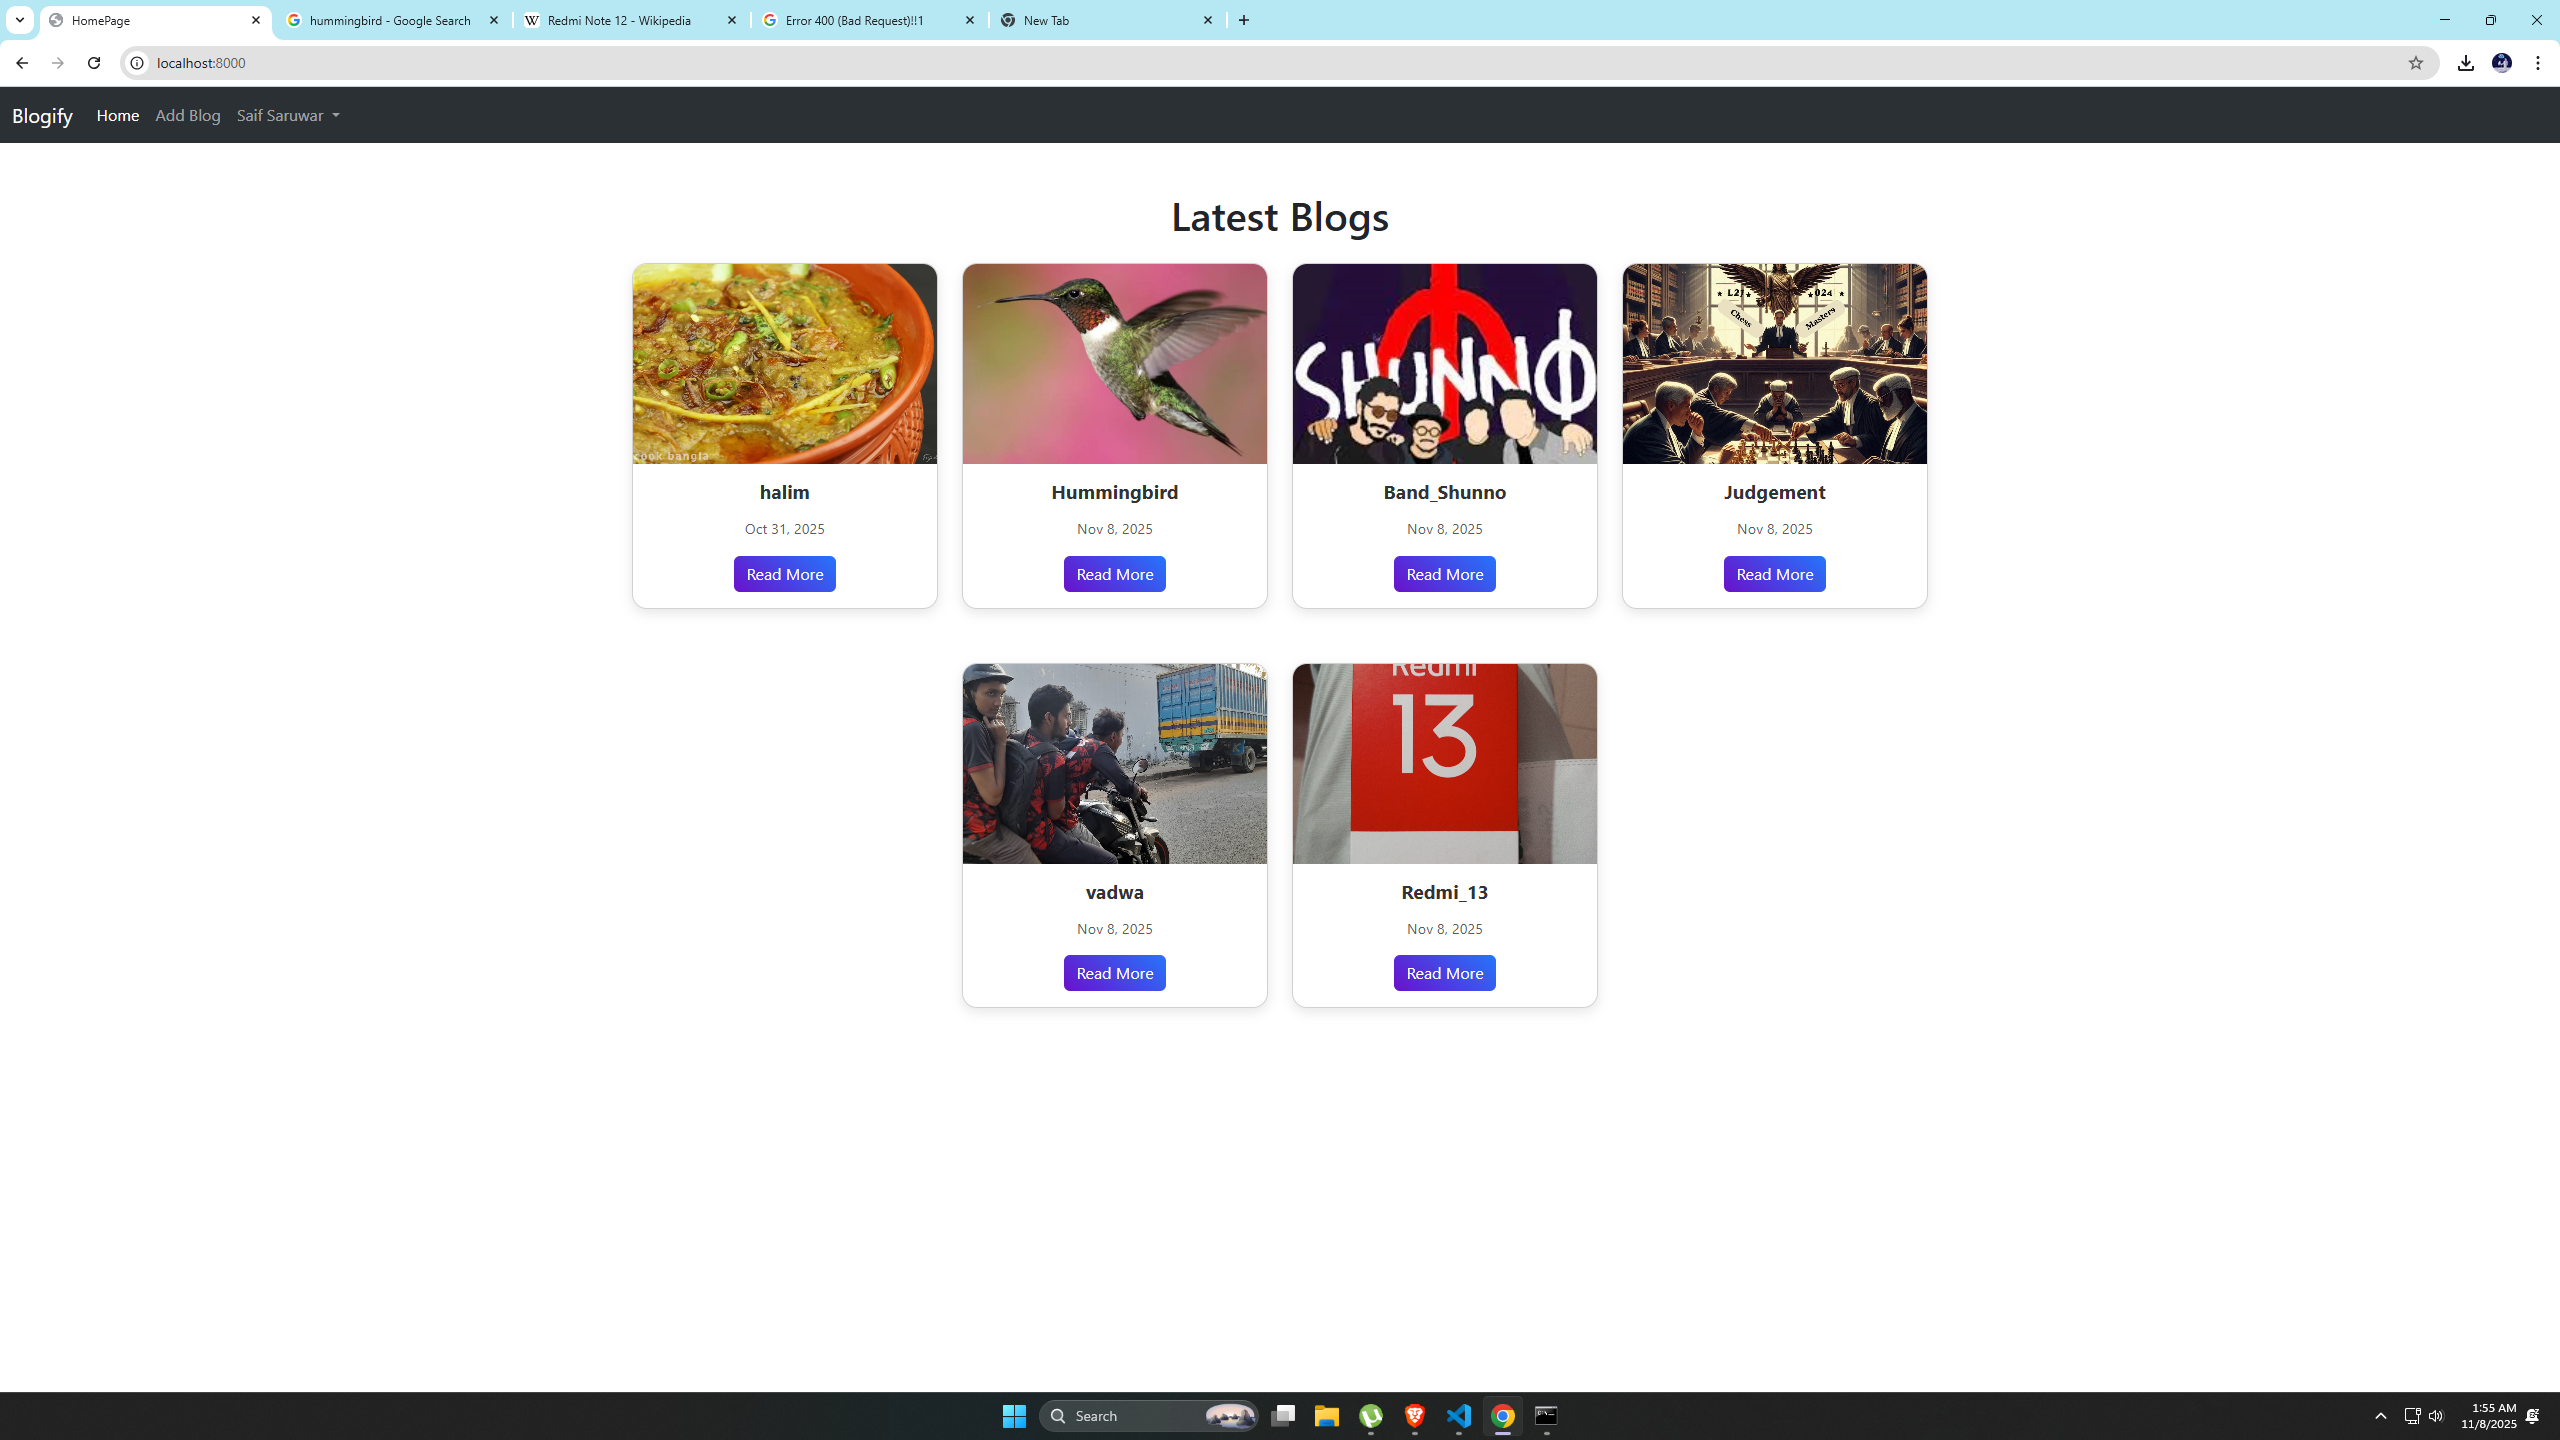
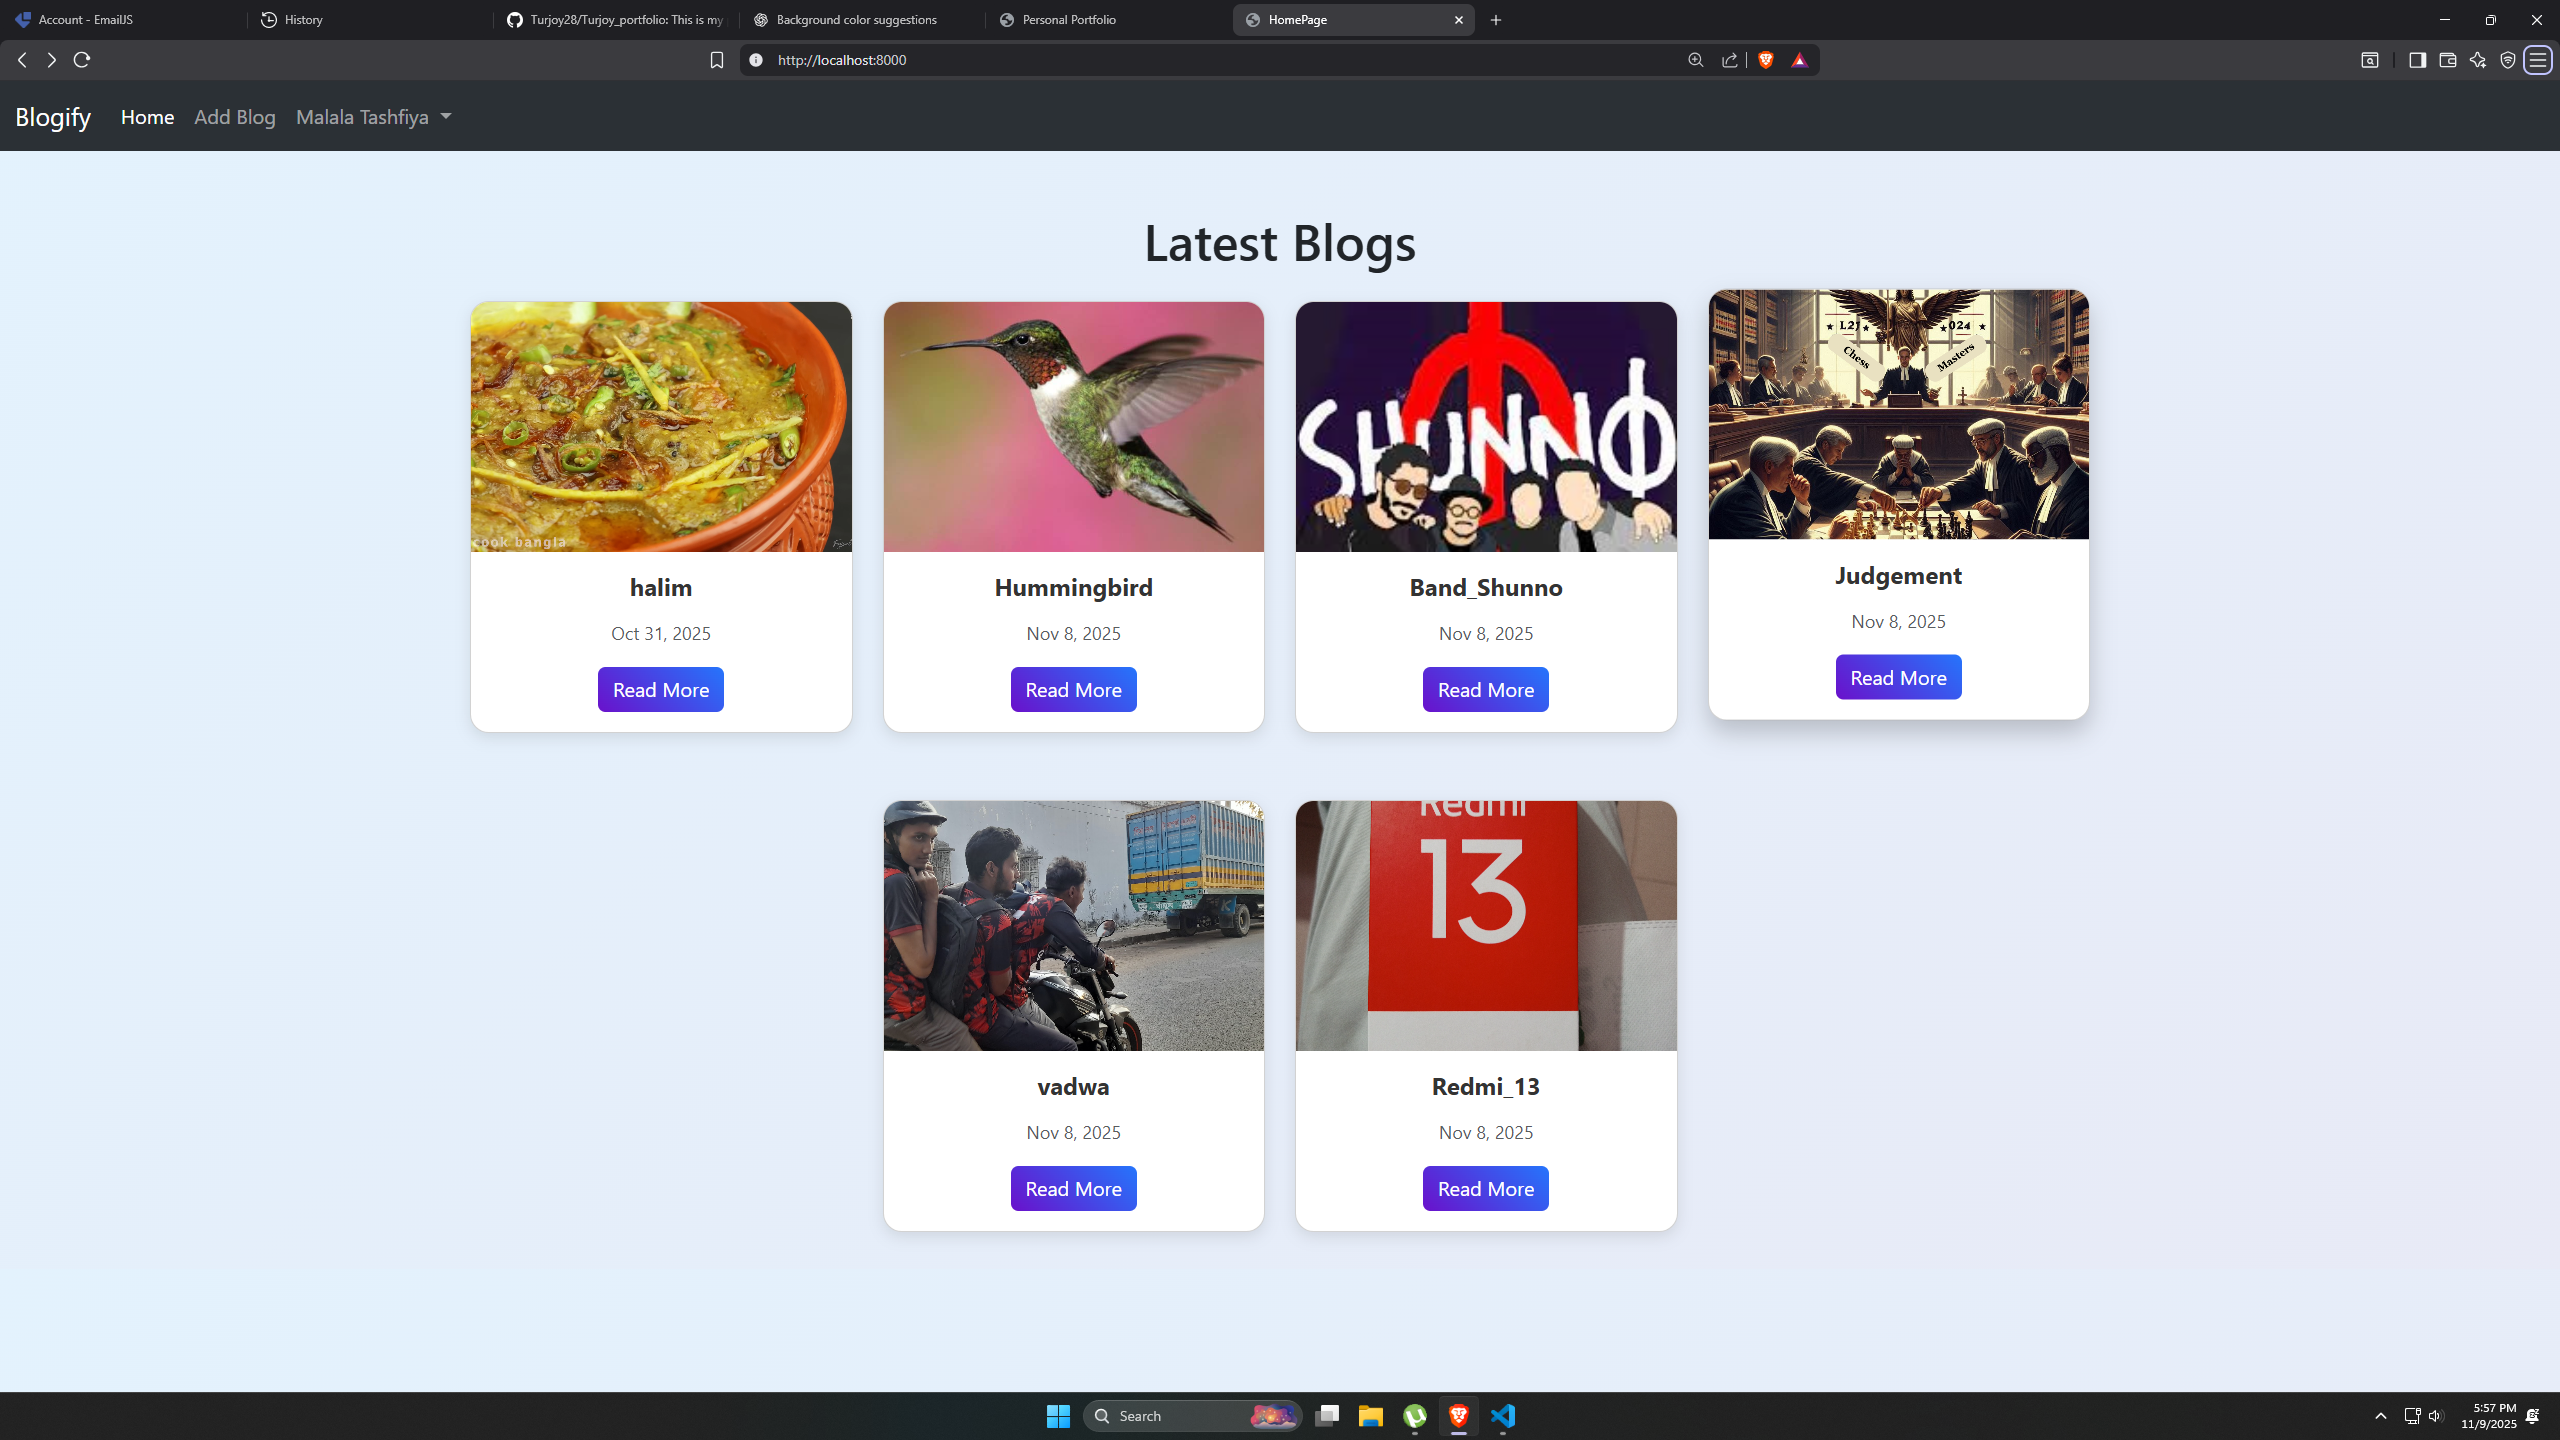
motamoti

diff --git a/style.css b/style.css
@@ -801,7 +801,8 @@ a {
    gap: 3rem;
    max-width: 300rem;
    padding: 7%;
-   padding-top: 8.5%;
+   padding-top: 17%;
+   padding-bottom: 5%;
 
 
 }
